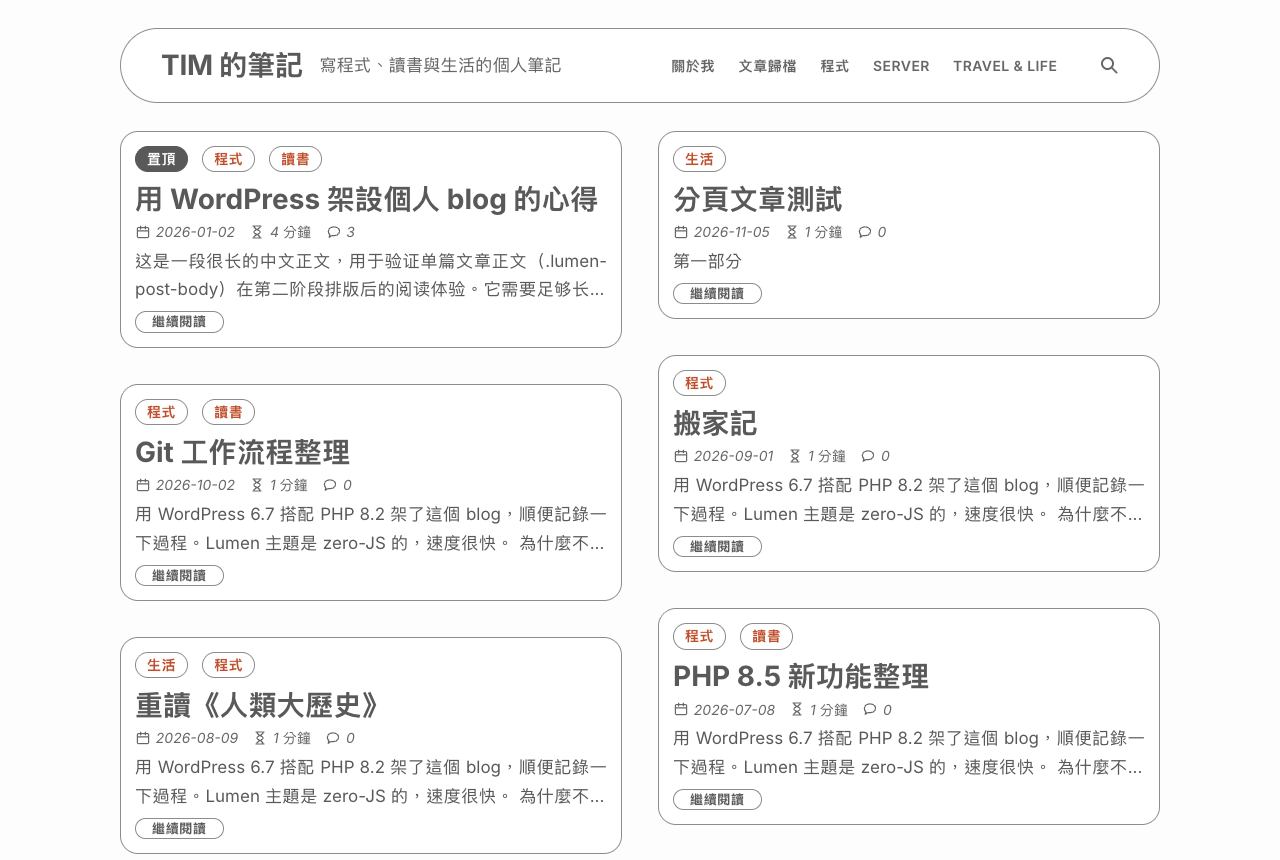
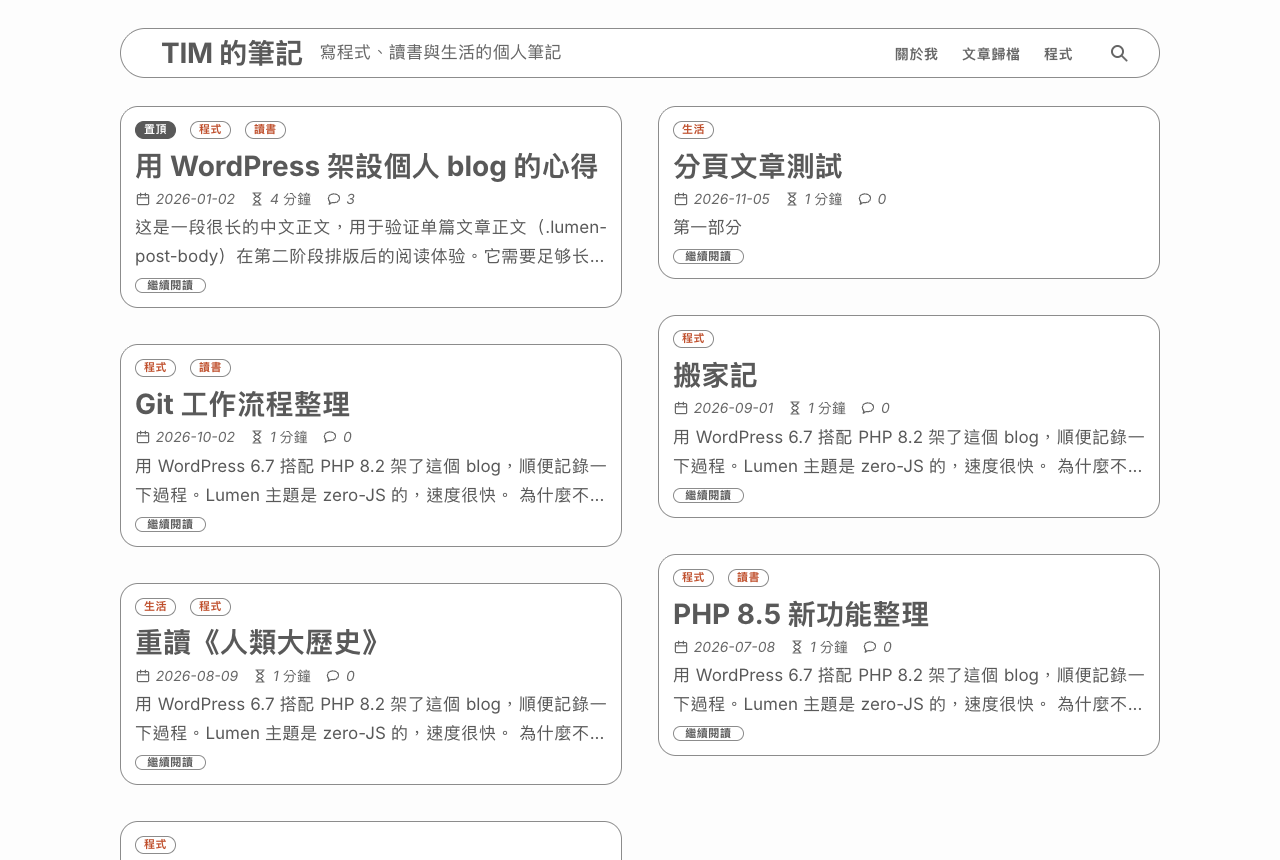
1.3.6：頁首高度 2/3；膠囊、麵包屑、READ MORE 縮小為 11px，麵包屑目前項目加粗

diff --git a/lumen/assets/css/main.css b/lumen/assets/css/main.css
@@ -65,7 +65,8 @@
 	--font: "Lumen Latin", -apple-system, BlinkMacSystemFont, "Segoe UI", Roboto, "Helvetica Neue", Arial, "PingFang TC", "PingFang SC", "Noto Sans CJK TC", "Noto Sans CJK SC", "Microsoft JhengHei", "Microsoft YaHei", sans-serif;
 
 	/* One type scale. */
-	--text-xs: 0.8125rem;                      /* 13px: card "Read more" */
+	--text-2xs: 0.6875rem;                     /* 11px: pills, breadcrumbs, card "Read more" */
+	--text-xs: 0.8125rem;                      /* 13px */
 	--text-sm: 0.875rem;                       /* 14px: meta, pills, buttons, labels */
 	--text-base: 1.0625rem;                    /* 17px: body, excerpts, menu */
 	--text-lg: 1.375rem;                       /* 22px: section headings */
@@ -297,7 +298,7 @@ p {
 	grid-template-columns: 1fr auto;
 	align-items: center;
 	gap: 0.5rem 1rem;
-	padding: 1rem 1.25rem 1rem 1.5rem;
+	padding: 0.5rem 1rem 0.5rem 1.5rem;
 	background: var(--card);
 	border: 1px solid var(--line);
 	border-radius: 28px;
@@ -315,7 +316,7 @@ p {
 	display: inline-block;
 	font-size: var(--text-xl);
 	font-weight: 700;
-	line-height: 1.25;
+	line-height: 1.1;
 	letter-spacing: -0.01em;
 }
 
@@ -375,8 +376,8 @@ p {
 .lumen-search-toggle {
 	display: inline-grid;
 	place-items: center;
-	width: 2.75rem;
-	height: 2.75rem;
+	width: 2rem;
+	height: 2rem;
 	padding: 0;
 	color: var(--fg-soft);
 	background: none;
@@ -413,7 +414,7 @@ body:has(#lumen-search:popover-open) .lumen-search-toggle {
 	.lumen-header-inner {
 		grid-template-columns: 1fr auto auto;
 		column-gap: 1.25rem;
-		padding: 0.9rem 1.75rem 0.9rem 2.5rem;
+		padding: 0.5rem 1.5rem 0.5rem 2.5rem;
 		border-radius: var(--round);
 	}
 
@@ -583,10 +584,10 @@ body:has(#lumen-search:popover-open) .lumen-search-toggle {
 /* Outlined pill. */
 .lumen-pill {
 	display: inline-block;
-	padding: 1px 11px;
-	font-size: var(--text-sm);
+	padding: 0 8px;
+	font-size: var(--text-2xs);
 	font-weight: 600;
-	line-height: 1.6;
+	line-height: 1.45;
 	letter-spacing: 0.02em;
 	font-variant-numeric: tabular-nums;
 	white-space: nowrap;
@@ -744,8 +745,10 @@ a.lumen-stat:hover {
 
 .lumen-card > .lumen-button {
 	margin-top: -2px;
-	/* Smaller, in Inter's true italic (Chinese labels stay upright). */
-	font-size: var(--text-xs);
+	/* Small, in Inter's true italic (Chinese labels stay upright). */
+	padding-inline: 0.7rem;
+	font-size: var(--text-2xs);
+	line-height: 1.2;
 	font-style: italic;
 	font-synthesis-style: none;
 }
@@ -807,10 +810,10 @@ a.lumen-stat:hover {
 	margin: 0;
 	/* Same box as .lumen-pill (the post count beside it): same height,
 	   padding and font size. */
-	padding: 1px 11px;
+	padding: 0 8px;
 	list-style: none;
-	font-size: var(--text-sm);
-	line-height: 1.6;
+	font-size: var(--text-2xs);
+	line-height: 1.45;
 	color: var(--muted);
 	background: var(--card);
 	border: 1px solid var(--line);
@@ -824,7 +827,7 @@ a.lumen-stat:hover {
 
 .lumen-breadcrumbs li + li::before {
 	content: "›";
-	margin-inline: 0.45rem;
+	margin-inline: 0.35rem;
 	font-size: 1.15em;
 	line-height: 1;
 	color: var(--line);
@@ -833,7 +836,7 @@ a.lumen-stat:hover {
 .lumen-breadcrumbs a {
 	display: inline-flex;
 	align-items: center;
-	gap: 0.3rem;
+	gap: 0.25rem;
 	color: var(--muted);
 }
 
@@ -842,11 +845,12 @@ a.lumen-stat:hover {
 }
 
 .lumen-breadcrumbs .lumen-icon {
-	width: 0.95rem;
-	height: 0.95rem;
+	width: 0.75rem;
+	height: 0.75rem;
 }
 
 .lumen-breadcrumbs [aria-current="page"] {
+	font-weight: 600;
 	color: var(--accent);
 }
 

diff --git a/lumen/style.css b/lumen/style.css
@@ -4,7 +4,7 @@ Theme URI: https://github.com/wwintj/lumen
 Author: Lumen Team
 Author URI: https://github.com/wwintj
 Description: A personal blog theme for Chinese and English writing: outlined cards in a two-column masonry, a one-line capsule header, one accent colour, automatic dark mode, reading time, and a year-by-year archive page. Zero JavaScript; English text uses a bundled 29 KB subset of Inter (SIL OFL 1.1).
-Version: 1.3.5
+Version: 1.3.6
 Requires at least: 6.3
 Tested up to: 7.1
 Requires PHP: 8.2

diff --git a/lumen/functions.php b/lumen/functions.php
@@ -11,7 +11,7 @@ if ( ! defined( 'ABSPATH' ) ) {
 	exit;
 }
 
-define( 'LUMEN_VERSION', '1.3.5' );
+define( 'LUMEN_VERSION', '1.3.6' );
 define( 'LUMEN_DIR', get_template_directory() );
 define( 'LUMEN_URI', get_template_directory_uri() );
 

diff --git a/CHANGELOG.md b/CHANGELOG.md
@@ -2,6 +2,13 @@
 
 正式發布版本、ZIP 與校驗碼以 [GitHub Releases](https://github.com/wwintj/lumen/releases) 為準。
 
+## 1.3.6
+
+- **更扁的頁首**：上下內距與搜尋按鈕縮小、站名行高收緊，高度約 75px → 50px；字級不變。
+- **更小的膠囊**：分類、標籤、文章數膠囊改為 11px（新增字級 `--text-2xs`），高度約 26px → 18px。
+- **麵包屑**：與文章數膠囊同步縮小為 11px／18px 高，目前項目改為半粗體（仍為強調色）。
+- **READ MORE**：11px 真斜體，高度約 21.5px → 15px。
+
 ## 1.3.5
 
 - **無陰影**：移除全站所有平面投影（卡片、頁首、搜尋框、特色圖片、膠囊、按鈕、分頁、輸入框）。
